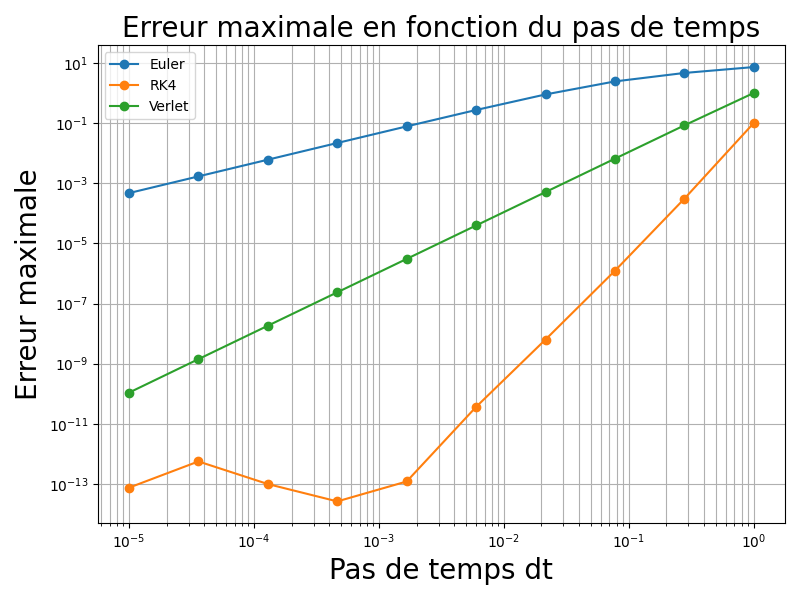
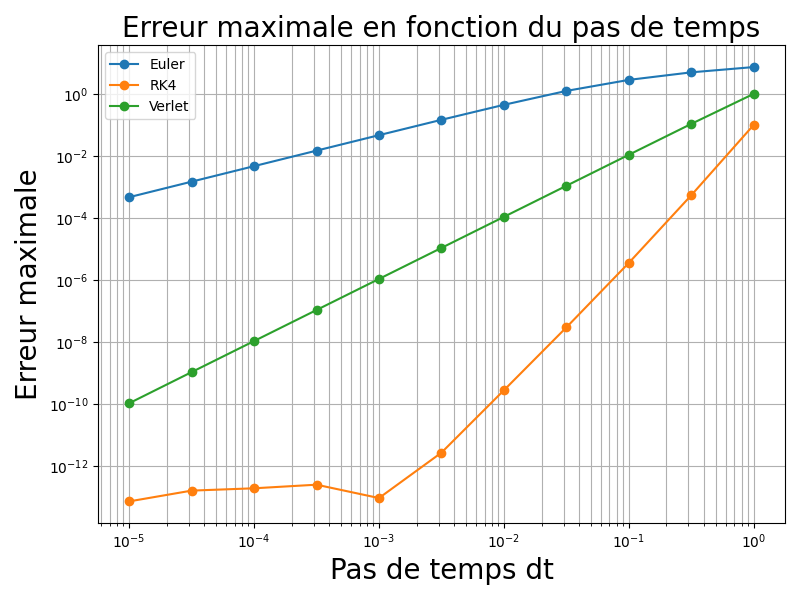
suite

diff --git a/main.py b/main.py
@@ -1,4 +1,3 @@
-
 import numpy as np
 import math as mt
 import matplotlib.pyplot as plt
@@ -585,7 +584,7 @@ t = np.arange(0, 10000, dt)
 # plot_erreur(t, r1_ana, r2_ana, r1_rk4, r2_rk4, dt, method_name="RK4")
 # plot_erreur(t, r1_ana, r2_ana, r1_verlet, r2_verlet, dt, method_name="Verlet")
 
-# tracer_erreur_vs_dt(dt_min=1e-5, dt_max=1.0, nb_points=10, T=10.0)
+# tracer_erreur_vs_dt(dt_min=1e-5, dt_max=1.0, nb_points=11, T=10.0)
 
 
 # ============================================================
@@ -956,10 +955,15 @@ def scenario_restricted_3body(m1=1.0, m2=2.0, m3=1e-3, G=1.0):
     v1_0 = -(m2 / M) * v_rel
     v2_0 =  (m1 / M) * v_rel
 
-    # 3e corps : un peu plus loin, vitesse initiale approximative
-    r3_0 = np.array([0.0, 2.5])
-    # vitesse "à peu près orbitale" autour du barycentre (approx)
-    v3_0 = np.array([ -0.7, 0.0])
+    # 3e corps : plus loin + vitesse orbitale autour du barycentre (approx)
+    r3_0 = np.array([0.0, 4.0])
+
+    M = m1 + m2
+    r = np.linalg.norm(r3_0)
+    v_circ = np.sqrt(G * M / r)
+
+    # tangente (sens trigo) : à (0,r) -> vitesse vers (-v,0) ou (+v,0)
+    v3_0 = np.array([-v_circ, 0.0]) * 0.95  # 0.95 => petite ellipse stable
 
     R0 = np.stack([r1_0, r2_0, r3_0], axis=0)
     V0 = np.stack([v1_0, v2_0, v3_0], axis=0)
@@ -1007,33 +1011,42 @@ def plot_trajectoires_3corps(Rs, title="Trajectoires 3 corps"):
 
 
 def plot_invariants(t, E, L, title="Invariants"):
-    """
-    Trace (E-E0)/|E0| et (L-L0)/|L0|
-    """
+
     E0 = E[0]
     L0 = L[0]
+
+    # --- Energie ---
     dE = (E - E0) / abs(E0) if E0 != 0 else (E - E0)
-    dL = (L - L0) / abs(L0) if L0 != 0 else (L - L0)
+
+    # --- Moment cinétique ---
+    if abs(L0) < 1e-8:
+        dL = (L - L0)          # dérive absolue
+        ylabelL = r"$(L - L_0)$"
+    else:
+        dL = (L - L0) / abs(L0)
+        ylabelL = r"$(L - L_0)/|L_0|$"
 
     fig, (ax1, ax2) = plt.subplots(1, 2, figsize=(12, 4))
+
+    # --- Energie ---
     ax1.plot(t, dE)
     ax1.set_title("Dérive énergie")
     ax1.set_xlabel("Temps")
-    ax1.set_ylabel(r"$(E-E_0)/|E_0|$")
+    ax1.set_ylabel(r"$(E - E_0)/|E_0|$")
     ax1.grid(True)
     ax1.ticklabel_format(style="plain", axis="y", useOffset=False)
 
-    ax2.plot(t, dL)
+    # --- Moment cinétique ---
+    ax2.plot(t, dL)  
     ax2.set_title("Dérive moment cinétique")
     ax2.set_xlabel("Temps")
-    ax2.set_ylabel(r"$(L-L_0)/|L_0|$")
+    ax2.set_ylabel(ylabelL)
     ax2.grid(True)
     ax2.ticklabel_format(style="plain", axis="y", useOffset=False)
 
     plt.suptitle(title)
     plt.tight_layout()
     plt.show()
-
 
 # ============================================================
 # 7) DEMO 3 CORPS (à mettre en bas, à la place de tes tests)
